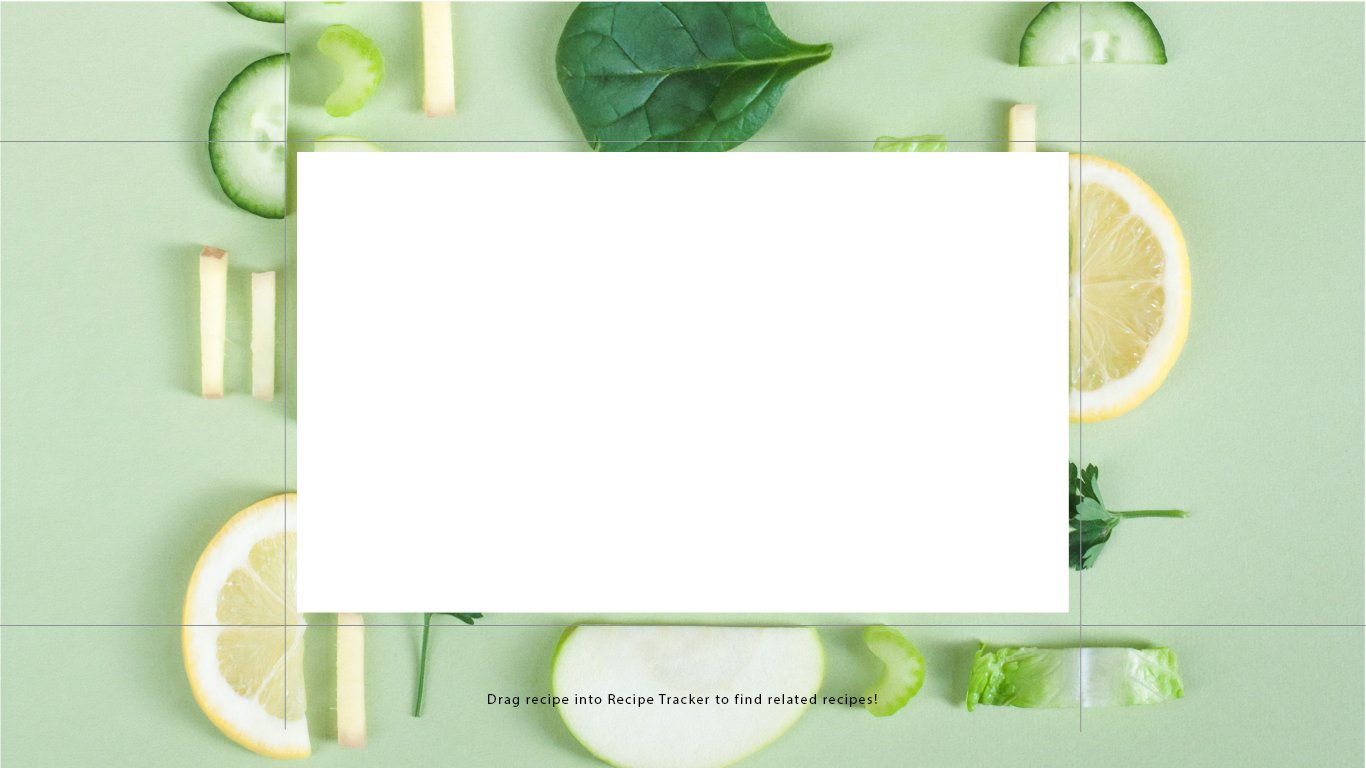
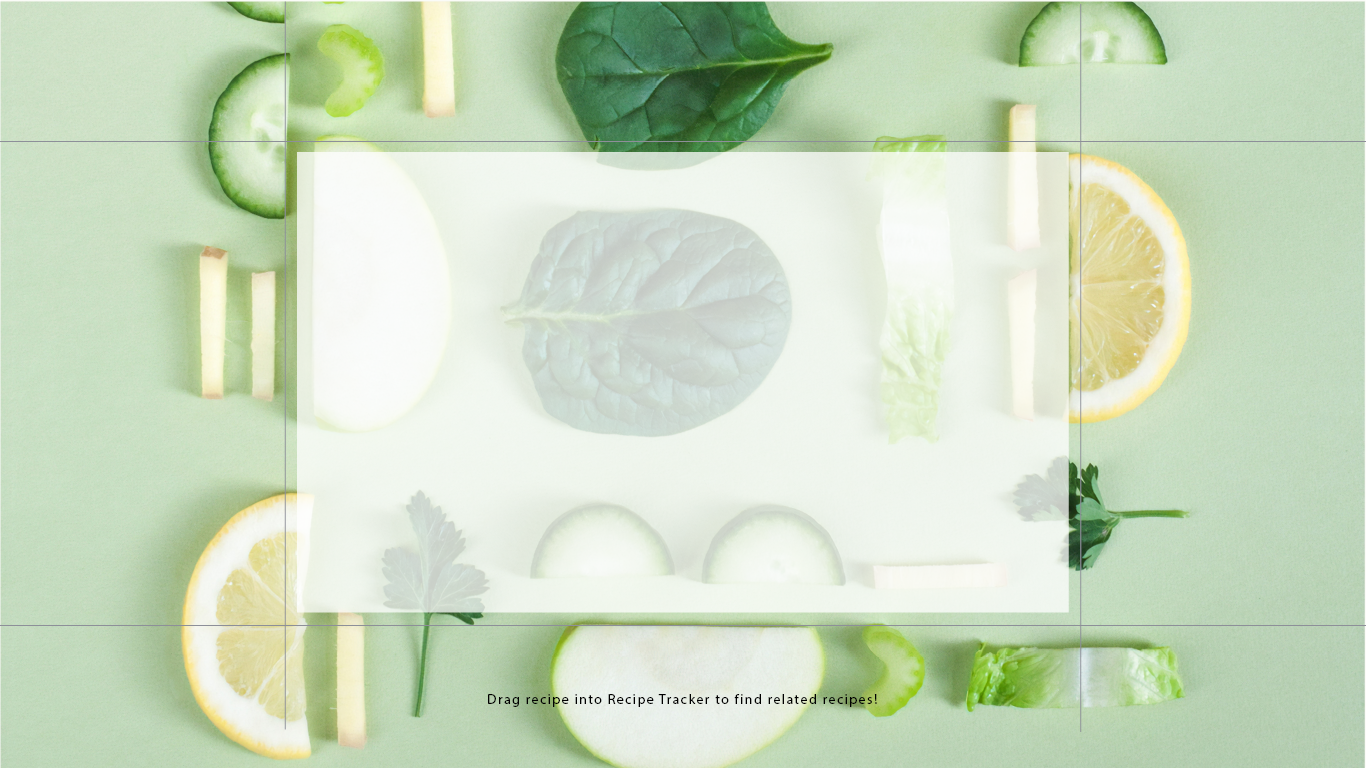
real final changes(I believe again)

diff --git a/style.css b/style.css
@@ -209,7 +209,7 @@ a:active {
 }
 
 #dumplingContainer > *:not(img) {
-    background-color: #fff;
+    background-color: #fff9;
     padding: 1pc;
 }
 
@@ -248,7 +248,7 @@ a:active {
 }
 
 #porkContainer > *:not(img) {
-    background-color: #fff;
+    background-color: #fff9;
     padding: 1pc;
 }
 
